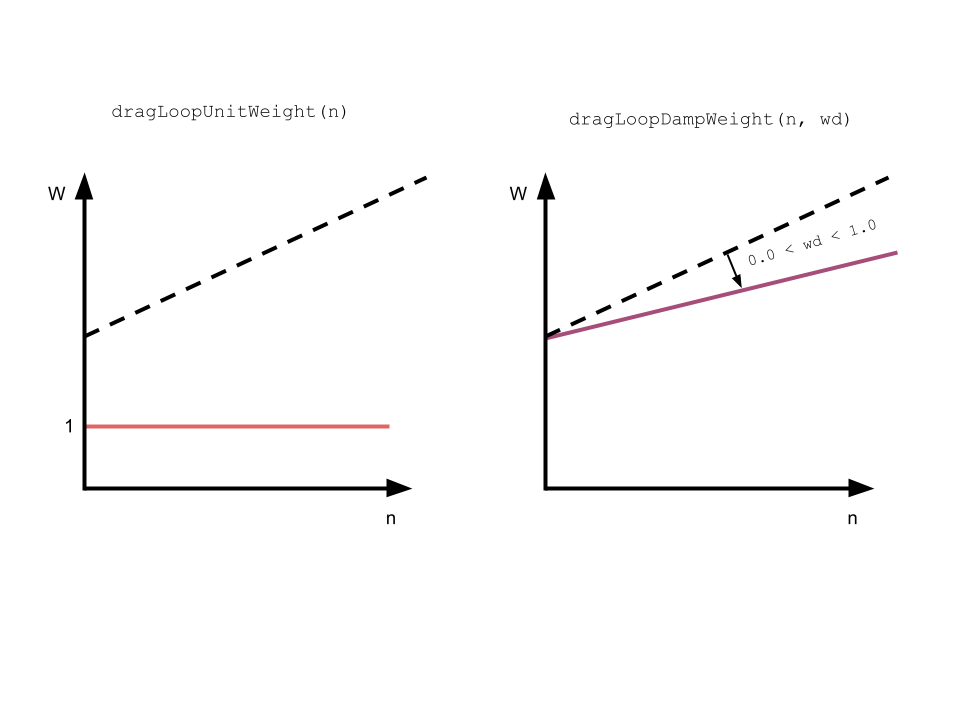
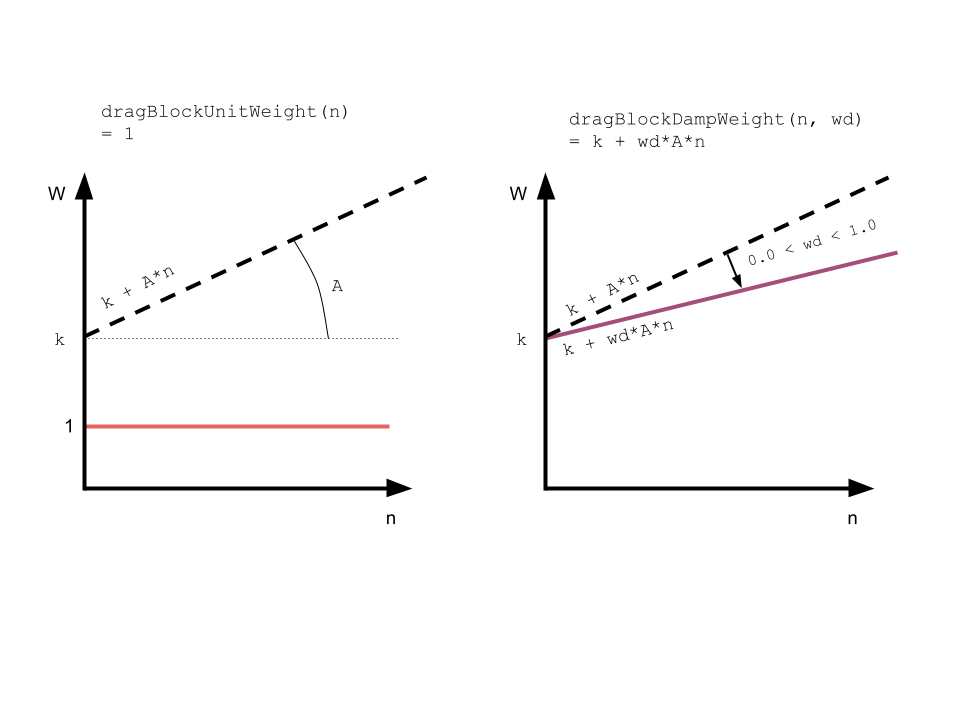
rename dragBlock extrinsics

diff --git a/src/lib.rs b/src/lib.rs
@@ -67,7 +67,7 @@ pub mod pallet {
 	    // By using the smallest possible weight we are essentially telling
 	    // the runtime that this dispatchable function will be executed immediately
 	    #[pallet::weight(1)]
-	    pub fn drag_loop_unit_weight(origin: OriginFor<T>, n: u32) -> DispatchResult {
+	    pub fn drag_block_unit_weight(origin: OriginFor<T>, n: u32) -> DispatchResult {
 	        let who = ensure_signed(origin)?;
 
 	        let mut j = 0;

diff --git a/README.md b/README.md
@@ -26,8 +26,8 @@ The Chaos module provides implementations for the following traits. If these tra
 
 ### Dispatchable Functions
 
-- `dragLoopUnitWeight(n)` - Drag block production by calculating hashes in a loop (`n` times), with constant unitary weight.
-- `dragLoopDampWeight(n, wd)` - Drag block production by calculating hashes in a loop (`n` times), with linear damping on weight (`0.0 < wd < 1.0`). (ToDo)
+- `dragBlockUnitWeight(n)` - Drag block production by calculating hashes in a loop (`n` times), with constant unitary weight.
+- `dragBlockDampWeight(n, wd)` - Drag block production by calculating hashes in a loop (`n` times), with linear damping on weight (`0.0 < wd < 1.0`). (ToDo)
 
 ![block dragger](blockdragger.png)
 
@@ -125,14 +125,14 @@ $ ./target/release/node-template --dev --tmp
 
 On PolkadotJS, connect to `DEVELOPMENT` Chain (`ws://127.0.0.1:9944`).
 
-Open `Developer`->`Extrinsics`. Choose `chaos`->`dragLoopUnitWeight(n)`.
+Open `Developer`->`Extrinsics`. Choose `chaos`->`dragBlockUnitWeight(n)`.
 
 Here's where the experimentation starts. Choose different values for `n`, call `Submit Transaction` and observe the effects on block production.
 
 ## Roadmap
 
-- [x] `dragLoopUnitWeight` extrinsic implementation
-- [ ] `dragLoopDampWeight` extrinsic implementation
+- [x] `dragBlockUnitWeight` extrinsic implementation
+- [ ] `dragBlockDampWeight` extrinsic implementation
 - [ ] Block Dragger Trait implementation
 - [ ] Empirical Observations (automated via `subtx` RPC calls)
 
@@ -142,7 +142,7 @@ Empirical observations were collected in a machine with the following specs:
 
 // ToDo
 
-#### dragLoopUnitWeight
+#### dragBlockUnitWeight
 
 |       n       | added block time |
 |:-------------:|:----------------:|
@@ -154,7 +154,7 @@ Empirical observations were collected in a machine with the following specs:
 |  500_000_000  |         x        |
 | 1_000_000_000 |         x        |
 
-#### dragLoopDampWeight
+#### dragBlockDampWeight
 
 |       n       |  wd | added block time |
 |:-------------:|:---:|:----------------:|
